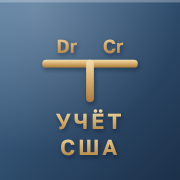
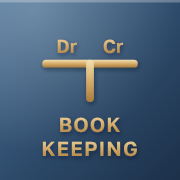
Название Bookkeeping — бухгалтерский учёт США, новый значок
Claude-Session: https://claude.ai/code/session_01FUTZExDFwEAxmhjaMhdPco

Changed region(s): [[0.2222, 0.5833, 0.7778, 0.8889]]

diff --git a/index.html b/index.html
@@ -3,13 +3,13 @@
 <head>
 <meta charset="utf-8">
 <meta name="viewport" content="width=device-width, initial-scale=1">
-<title>Американский учёт</title>
+<title>Bookkeeping — бухгалтерский учёт США</title>
 <link rel="manifest" href="manifest.webmanifest">
 <link rel="apple-touch-icon" href="apple-touch-icon.png">
 <link rel="icon" href="icon-192.png">
 <meta name="theme-color" content="#28425C">
 <meta name="apple-mobile-web-app-capable" content="yes">
-<meta name="apple-mobile-web-app-title" content="Учёт США">
+<meta name="apple-mobile-web-app-title" content="Bookkeeping">
 <style>
 @font-face { font-family: 'Spectral'; font-style: normal; font-display: swap; font-weight: 600; src:url(fonts/spectral-cyrillic-600-normal.woff2) format('woff2'); unicode-range: U+0301,U+0400-045F,U+0490-0491,U+04B0-04B1,U+2116; }
 @font-face { font-family: 'Spectral'; font-style: normal; font-display: swap; font-weight: 600; src:url(fonts/spectral-latin-600-normal.woff2) format('woff2'); unicode-range: U+0000-00FF,U+0131,U+0152-0153,U+02BB-02BC,U+02C6,U+02DA,U+02DC,U+0304,U+0308,U+0329,U+2000-206F,U+20AC,U+2122,U+2191,U+2193,U+2212,U+2215,U+FEFF,U+FFFD; }
@@ -49,8 +49,9 @@ button,input,select,textarea{font-family:inherit;color:inherit}
   box-shadow:0 10px 28px rgba(30,51,72,.22)}
 .appbar .top{display:flex;align-items:center;gap:11px}
 .appbar svg{width:34px;height:34px;flex:none;filter:drop-shadow(0 3px 6px rgba(10,20,32,.35))}
-.appbar h1{font-size:20px;line-height:1.15;color:#fff}
-.appbar .sub{font-size:12.5px;color:rgba(220,230,240,.85);margin-top:1px}
+.appbar h1{font-size:21px;line-height:1.1;color:#fff;letter-spacing:.01em}
+.appbar .sub{font-size:12.5px;color:#E9D2A8;margin-top:1px;letter-spacing:.02em}
+.appbar .sub2{font-size:11.5px;color:rgba(220,230,240,.8);margin-top:1px}
 .appbar .saved{margin-left:auto;font-size:11.5px;color:rgba(220,230,240,.85);display:flex;align-items:center;gap:6px;white-space:nowrap}
 .appbar .saved i{width:7px;height:7px;border-radius:50%;background:#7FB795;box-shadow:0 0 0 3px rgba(127,183,149,.18)}
 
@@ -155,7 +156,7 @@ textarea.copybox{width:100%;height:120px;font-size:13px;margin-top:8px;border-ra
   <rect x="9" y="16" width="46" height="7" rx="3.5" fill="url(#gg)"/><rect x="28.5" y="16" width="7" height="38" rx="3.5" fill="url(#gg)"/>
   <text x="18" y="12" font-family="Golos Text,sans-serif" font-size="10" font-weight="700" fill="#F0DAA8" text-anchor="middle">Dr</text>
   <text x="46" y="12" font-family="Golos Text,sans-serif" font-size="10" font-weight="700" fill="#F0DAA8" text-anchor="middle">Cr</text></svg>
-  <div><h1>Американский учёт</h1><div class="sub" id="hdrSub">Урок 1</div></div>
+  <div><h1>Bookkeeping</h1><div class="sub">Бухгалтерский учёт США</div><div class="sub2" id="hdrSub">Урок 1</div></div>
   <div class="saved"><i></i>Сохранено</div>
 </div></header>
 <main id="view"></main>
@@ -195,7 +196,7 @@ const ACCOUNTS = [
 const LESSONS = [
   {
     id:"l1",
-    title:"Урок 1. Основа американского учёта",
+    title:"Урок 1. Основы бухгалтерского учёта США",
     theory:`
 <div class="card">
   <div class="tag">1. Главное равенство</div>
@@ -498,7 +499,7 @@ function rCopy(){
 /* ===================== EXCEL ===================== */
 async function buildWorkbook(){
   const wb = new ExcelJS.Workbook();
-  wb.creator = "Американский учёт";
+  wb.creator = "Bookkeeping — бухгалтерский учёт США";
   const head = (ws,row)=>{ row.font={bold:true}; row.fill={type:"pattern",pattern:"solid",fgColor:{argb:"FFDDE7F0"}}; row.alignment={vertical:"middle",wrapText:true}; };
   const list = ACCOUNTS.filter(a=>a[6] <= S.cur+1);
 
@@ -583,7 +584,7 @@ async function downloadXl(){
   S.savedAt = stamp + " " + String(d.getHours()).padStart(2,"0")+":"+String(d.getMinutes()).padStart(2,"0");
   const wb = await buildWorkbook();
   const buf = await wb.xlsx.writeBuffer();
-  const name = `Американский учёт ${stamp}.xlsx`;
+  const name = `Bookkeeping ${stamp}.xlsx`;
   let dl = null;
   try{ if(window.claude && window.claude.use) dl = await Promise.race([window.claude.use("downloads"), new Promise(r=>setTimeout(()=>r(null),3000))]); }catch(e){ dl=null; }
   if(dl){
